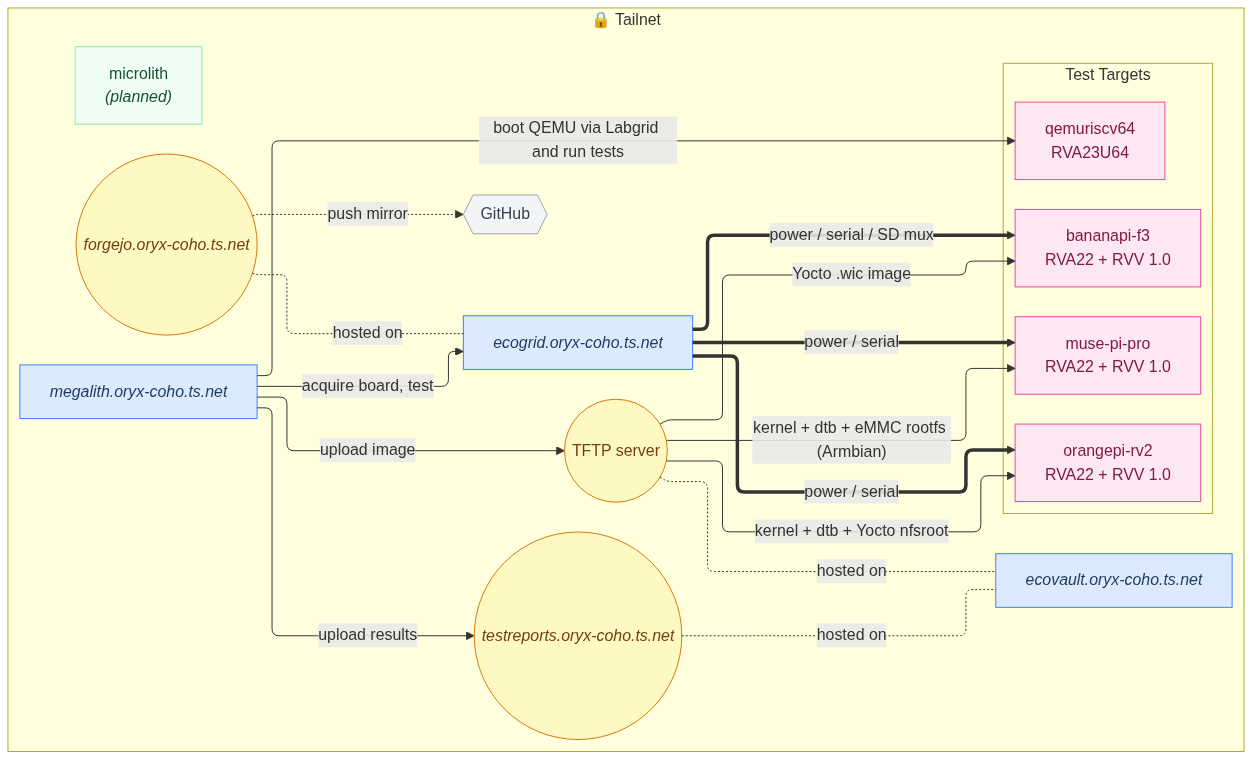
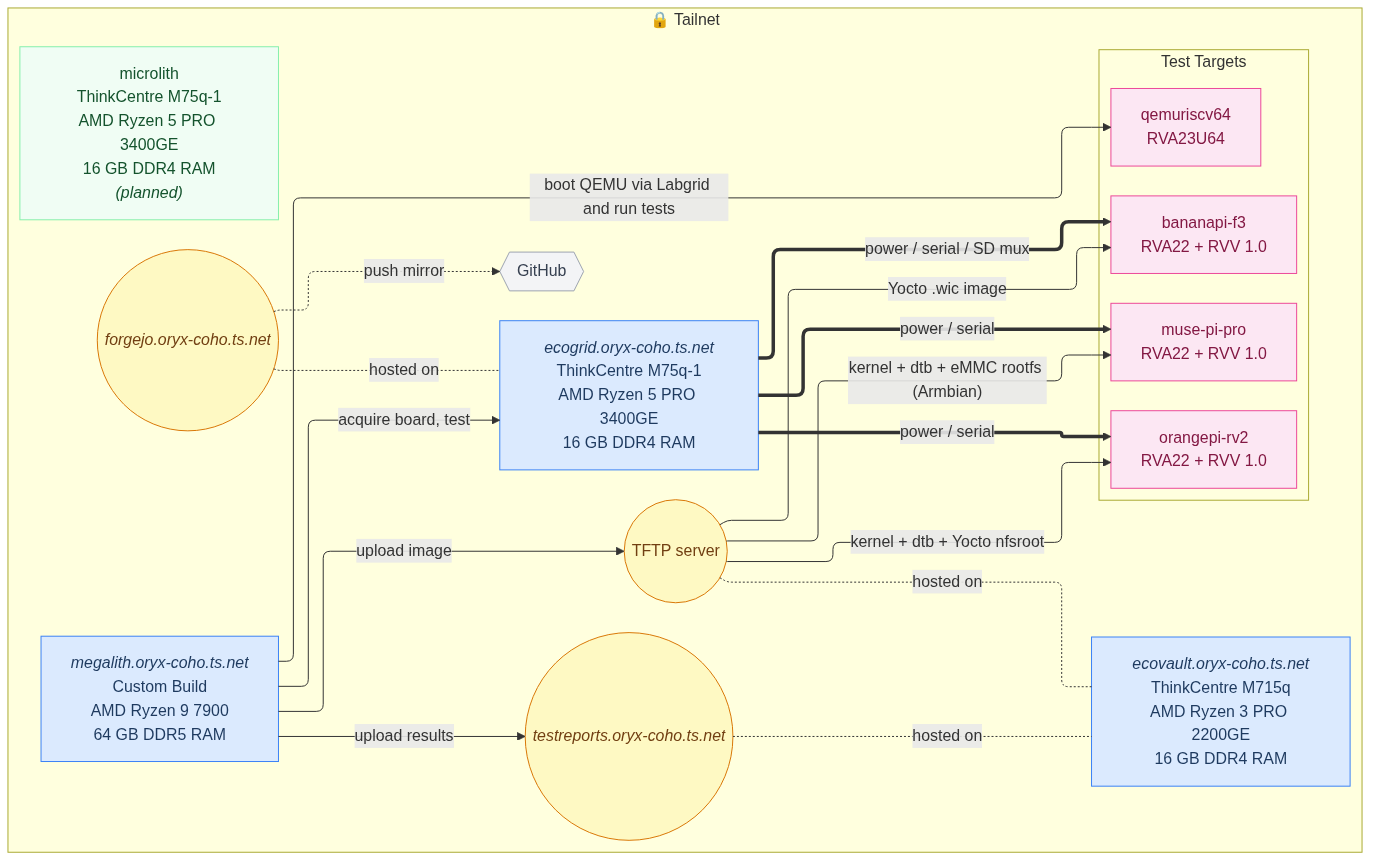
docs: update outputs

diff --git a/docs/bom.md b/docs/bom.md
@@ -7,13 +7,13 @@
 
 ## Machines
 
-| ID | Hostname | Tailscale FQDN | OS | Status |
-|----|----------|----------------|----|--------|
-| `ecogrid` | ecogrid | ecogrid.oryx-coho.ts.net | Debian 13 ("Trixie") | active |
-| `ecovault` | ecovault | ecovault.oryx-coho.ts.net | Debian 13 ("Trixie") | active |
-| `runner1` | megalith | megalith.oryx-coho.ts.net | Fedora 44 | active |
-| `runner2` | microlith | microlith.oryx-coho.ts.net | Fedora 44 | planned |
-| `github` | GitHub | — | — | active |
+| ID | Hostname | Tailscale FQDN | OS | Model | Specs | Status |
+|----|----------|----------------|----|-------|-------|--------|
+| `ecogrid` | ecogrid | ecogrid.oryx-coho.ts.net | Debian 13 ("Trixie") | ThinkCentre M75q-1 | AMD Ryzen 5 PRO 3400GE<br/>16 GB DDR4 RAM | active |
+| `ecovault` | ecovault | ecovault.oryx-coho.ts.net | Debian 13 ("Trixie") | ThinkCentre M715q | AMD Ryzen 3 PRO 2200GE<br/>16 GB DDR4 RAM | active |
+| `runner1` | megalith | megalith.oryx-coho.ts.net | Fedora 44 | [Custom Build](https://www.asrock.com/MB/AMD/B650E%20Taichi/index.asp) | AMD Ryzen 9 7900<br/>64 GB DDR5 RAM | active |
+| `runner2` | microlith | microlith.oryx-coho.ts.net | Fedora 44 | ThinkCentre M75q-1 | AMD Ryzen 5 PRO 3400GE<br/>16 GB DDR4 RAM | planned |
+| `github` | GitHub | — | — | — | — | active |
 
 ## Services
 
@@ -35,15 +35,15 @@
 
 | ID | Label | Vendor | Model | Arch | Connection |
 |----|-------|--------|-------|------|------------|
-| `board_1` | bananapi-f3 | BananaPi | BPI-F3 | riscv64 (RVA22 + RVV 1.0) | serial + power + sd mux |
-| `board_2` | muse-pi-pro | SpacemiT | Muse Pi Pro | riscv64 (RVA22 + RVV 1.0) | serial + power |
-| `board_3` | orangepi-rv2 | OrangePi | OrangePi RV2 | riscv64 (RVA22 + RVV 1.0) | serial + power |
+| `board_1` | bananapi-f3 | BananaPi | [BPI-F3](https://wiki.banana-pi.org/Banana_Pi_BPI-F3) | riscv64 (RVA22 + RVV 1.0) | serial + power + sd mux |
+| `board_2` | muse-pi-pro | SpacemiT | [Muse Pi Pro](https://www.spacemit.com/muse-pi-pro/) | riscv64 (RVA22 + RVV 1.0) | serial + power |
+| `board_3` | orangepi-rv2 | OrangePi | [OrangePi RV2](http://www.orangepi.org/html/hardWare/computerAndMicrocontrollers/details/Orange-Pi-RV2.html) | riscv64 (RVA22 + RVV 1.0) | serial + power |
 | `board_4` | qemuriscv64 | QEMU | RVA23U64 | riscv64 (RVA23U64) | virtual |
 
-| power | BayLibre CoPilot | BayLibre_Copilot_Lite_V1.2 | Power control |
-| serial | Raspberry Pi Debug Probe | Debug_Probe__CMSIS-DAP_0101 | USB-to-UART bridge |
-| SD mux | USB SD Mux | usb-sd-mux_rev4.0 | USB SD Mux controller |
-| power | BayLibre CoPilot | BayLibre_Copilot_Lite_V1.2 | Power control |
-| serial | Raspberry Pi Debug Probe | Debug_Probe__CMSIS-DAP_0101 | USB-to-UART bridge |
-| power | BayLibre CoPilot | BayLibre_Copilot_Lite_V1.2 | Power control |
-| serial | Raspberry Pi Debug Probe | Debug_Probe__CMSIS-DAP_0101 | USB-to-UART bridge |
+| power | [BayLibre CoPilot](https://baylibre.com/copilot/) | BayLibre_Copilot_Lite_V1.2 | Power control |
+| serial | [Raspberry Pi Debug Probe](https://www.raspberrypi.com/products/debug-probe/) | Debug_Probe__CMSIS-DAP_0101 | USB-to-UART bridge |
+| SD mux | [USB SD Mux](https://linux-automation.com/en/products/usb-sd-mux.html) | usb-sd-mux_rev4.0 | USB SD Mux controller |
+| power | [BayLibre CoPilot](https://baylibre.com/copilot/) | BayLibre_Copilot_Lite_V1.2 | Power control |
+| serial | [Raspberry Pi Debug Probe](https://www.raspberrypi.com/products/debug-probe/) | Debug_Probe__CMSIS-DAP_0101 | USB-to-UART bridge |
+| power | [BayLibre CoPilot](https://baylibre.com/copilot/) | BayLibre_Copilot_Lite_V1.2 | Power control |
+| serial | [Raspberry Pi Debug Probe](https://www.raspberrypi.com/products/debug-probe/) | Debug_Probe__CMSIS-DAP_0101 | USB-to-UART bridge |
